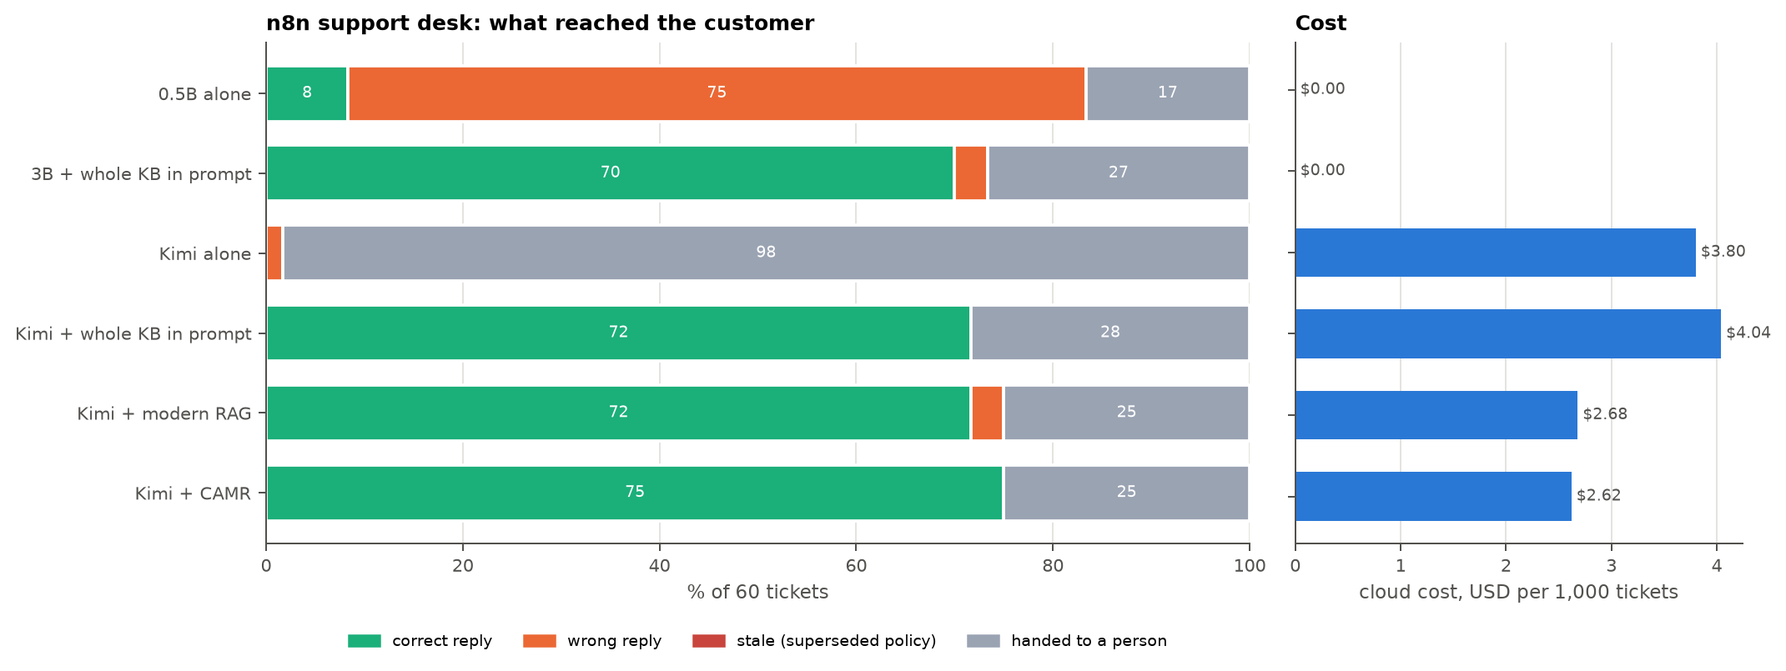
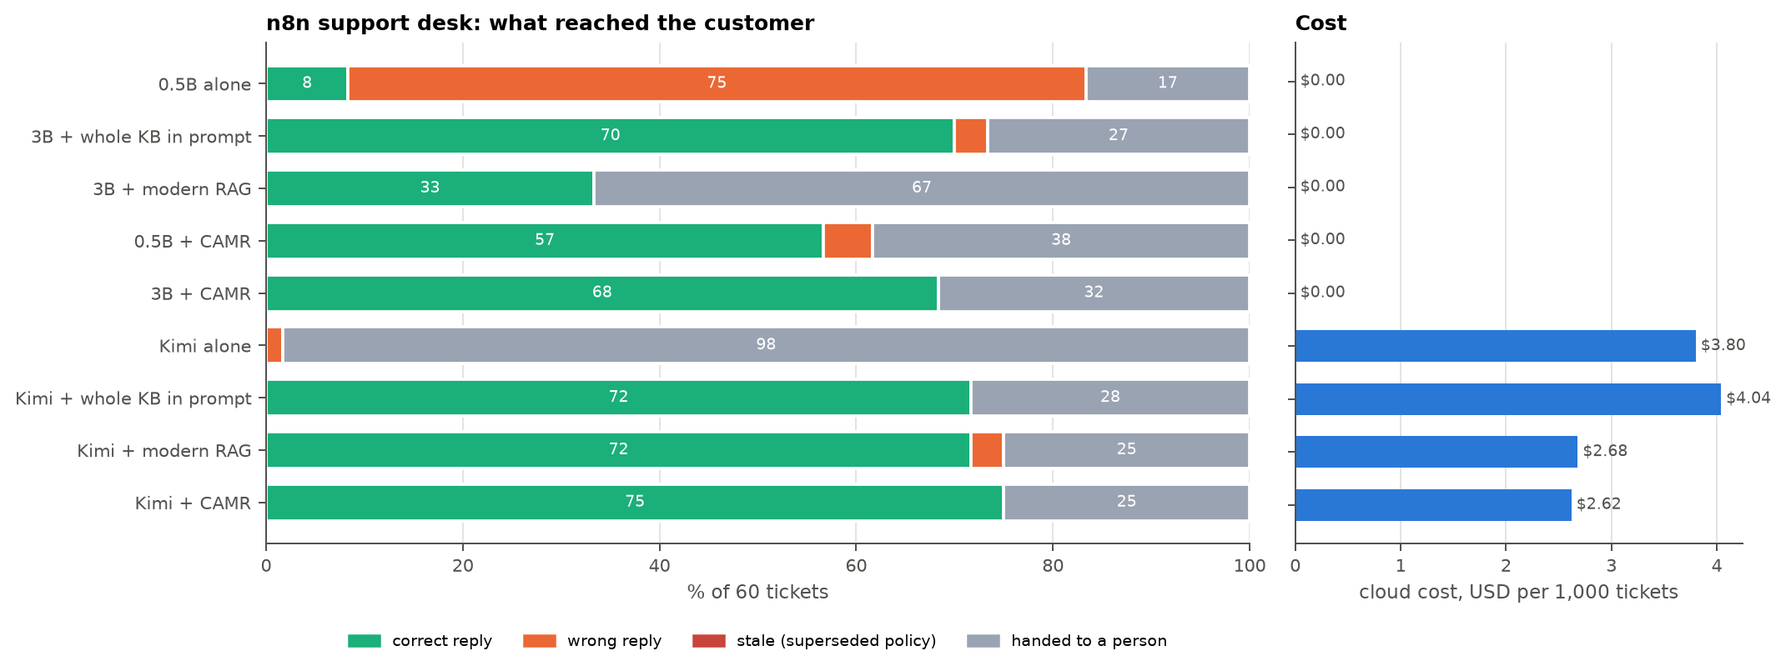
Findings F28-F31: modern RAG pipelines against CAMR, n8n automations and agents, model choice, cloud costs; defects D-31 to D-38; cost comparison chart

Changed region(s): [[0.0, 0.0932, 0.9865, 0.7764]]

diff --git a/scripts/make_ch5_figures.py b/scripts/make_ch5_figures.py
@@ -320,10 +320,10 @@ def fig_costs(out: Path) -> Path | None:
     ys = range(len(items))
     ax.barh(list(ys), [v for _, v in items], color=BLUE, height=0.6)
     for y, (_, v) in zip(ys, items):
-        ax.text(v, y, f" ${v:.2f}", va="center", fontsize=8, color=INK2)
+        ax.text(v, y, f" \\${v:.2f}", va="center", fontsize=8, color=INK2)
     ax.set_yticks(list(ys), [k for k, _ in items])
-    style(ax, xlabel="USD at Moonshot list price (input $3, output $15 per million tokens)", grid="x")
-    ax.set_title(f"Kimi K3 spend across the project: ${d['total']['usd']:.2f} for {d['total']['calls']:,} calls",
+    style(ax, xlabel="USD at Moonshot list price (input \\$3, output \\$15 per million tokens)", grid="x")
+    ax.set_title(f"Kimi K3 spend across the project: \\${d['total']['usd']:.2f} for {d['total']['calls']:,} calls",
                  loc="left")
     fig.tight_layout()
     return save(fig, out, "kimi_costs.png")
@@ -456,10 +456,58 @@ def fig_agent_matrix(out: Path) -> Path | None:
     return save(fig, out, "agentic_matrix.png")
 
 
+def fig_cost_compare(out: Path) -> Path | None:
+    """Cloud cost per 1,000 answers for the same model with each kind of memory, in every scenario measured."""
+    def load(path):
+        f = AG / path
+        return json.loads(f.read_text())["summary"] if f.exists() else None
+    scen = [("Support desk\n(60 tickets)", "helio_{}_kimi-k3.json", "cost_usd_per_1000_tickets"),
+            ("Current events\n(50 questions)", "fresh_{}_kimi-k3.json", "cost_usd_per_1000_questions")]
+    systems = [("llm", "alone", GREY), ("stuff", "context stuffing", ORANGE), ("rag", "modern RAG", BLUE),
+               ("camr", "CAMR", GREEN)]
+    rows = []
+    for label, pat, key in scen:
+        rows.append((label, [(load(pat.format(s)) or {}).get(key) for s, _, _ in systems]))
+    ag = [("Agent\n(20 tasks)", [(load(f"agent_kimi-k3__{m}.json") or {}).get("cost_usd_per_1000_tasks")
+                                  for m in ("none", None, "rag", "camr")] if True else [])]
+    ag[0][1][1] = None
+    rows += ag
+    runs = rag_runs()
+    rb = []
+    for s in ("llm", "stuff", "rag", "camr"):
+        d = runs.get(("kimi-k3", {"rag": "rerank", "camr": "camr"}.get(s, "")))
+        if d:
+            m = d["summary"]
+            rb.append((m["prompt_tokens"] * 3 + m["gen_tokens"] * 15) / 1e6 * 1000)
+        else:
+            rb.append(None)
+    rows.append(("RAG benchmark\n(200 questions)", rb))
+    fig, ax = plt.subplots(figsize=(10.4, 4.2), facecolor=SURF)
+    w = 0.2
+    for k, (s, name, col) in enumerate(systems):
+        xs, ys = [], []
+        for i, (_, vals) in enumerate(rows):
+            if vals[k] is not None:
+                xs.append(i + (k - 1.5) * w)
+                ys.append(vals[k])
+        ax.bar(xs, ys, width=w * 0.92, color=col, label=f"Kimi K3 {name}")
+        for x, y in zip(xs, ys):
+            ax.text(x, y * 1.04, f"\\${y:.2f}" if y < 10 else f"\\${y:.0f}", ha="center", va="bottom",
+                    fontsize=7, color=INK2)
+    ax.set_xticks(range(len(rows)), [r[0] for r in rows], fontsize=8.5)
+    ax.set_yscale("log")
+    ax.set_ylim(0.8, 300)
+    style(ax, ylabel="USD per 1,000 answers (log scale)", grid="y")
+    ax.legend(frameon=False, fontsize=8, ncol=4, loc="upper center", bbox_to_anchor=(0.5, -0.18))
+    ax.set_title("What the same cloud model costs with each kind of memory", loc="left")
+    fig.tight_layout()
+    return save(fig, out, "cost_compare.png")
+
+
 if __name__ == "__main__":
     ap = argparse.ArgumentParser()
     ap.add_argument("--out", default="docs/figures/report")
     o = Path(ap.parse_args().out)
     o.mkdir(parents=True, exist_ok=True)
-    for f in (fig_verified, fig_rag_errors, fig_agent_matrix, fig_rag_outcomes, fig_rag_tradeoff, fig_rag_cost, fig_models, fig_desk, fig_agent, fig_fresh, fig_costs):
+    for f in (fig_verified, fig_rag_errors, fig_agent_matrix, fig_rag_outcomes, fig_rag_tradeoff, fig_rag_cost, fig_models, fig_desk, fig_agent, fig_fresh, fig_costs, fig_cost_compare):
         f(o)

diff --git a/docs/FINDINGS.md b/docs/FINDINGS.md
@@ -5,7 +5,7 @@ number below was produced by the code in this repository, and the file it comes
 from is named. Nothing here is estimated or synthetic. Runs still in progress are
 listed at the end, and this log is updated as they finish.
 
-Last updated: 2026-10-01.
+Last updated: 2026-10-15.
 
 ---
 
@@ -773,6 +773,150 @@ Development draw, Qwen 0.5B calculator, held-out / reworded / derived: v1 56.7 /
 
 **Limits.** The 0.5B model cannot apply the arithmetic series or Heron's formula even with its own corrected solution in front of it (it rewrites `n/2 * (2a + (n-1)d)` as `n * (a + (n-1)d)`); no check can fix a wrong formula built from the right numbers, and the grounding check does not claim to. On combinations it got worse after correction (50% → 0%): it copied the prompt's sample equation (`2*x + 4 = 19`), and the grounding check flagged most of those answers. With 6 problems per family a family's figure moves in steps of 17 points.
 
+
+## F28. Modern RAG pipelines against CAMR (one corpus, one question set)
+
+Sources: `scripts/rag_bench.py`, `results/ragbench/run_<pipeline>_<reader>.json` (with `summary_judged`), `results/ragbench/thresholds.json`, `results/ragbench/corpus.json`; figures `report/rag_outcomes.png`, `report/rag_errors.png`, `report/rag_tradeoff.png`, `report/rag_cost.png`, diagram `diagrams/rag_pipelines.png`.
+
+**Set-up.** One store built from every page the frozen lookups read for the development, test and held-out sets (972 pages -> 9,989 documents -> 10,443 notes, 46.9 MB, lead sentences plus one note per infobox fact, as CAMR stores them). Every pipeline searches the same store and is scored on the same 200 held-out PopQA questions. RAG pipelines use LangChain's standard RAG prompt (rlm/rag-prompt) and five passages: dense (cosine top 5), BM25 (FTS5), hybrid (dense 20 + BM25 20, reciprocal-rank fusion, k = 60), hybrid + cross-encoder reranker (ms-marco-MiniLM-L-6-v2), HyDE, corrective RAG (the reranker's best score grades retrieval; incorrect -> the same frozen web lookups CAMR uses; ambiguous -> both), reranker + abstain, and reranker + CAMR's verification check. Thresholds were chosen on the 200 development questions only: abstain 5.3; corrective RAG 4.77 / 7.57. Answers exact matching marks wrong were judged by Kimi K3; CAMR's answers about a named other meaning (*Happy (2011 film): ...*) are counted apart from wrong ones, since a plain RAG answer never names its meaning.
+
+**Reader: Qwen 0.5B** (judged)
+
+| Pipeline | Correct | Wrong, stated | Other meaning (named) | Declined | Precision | Gold in context | Prompt tokens | Model s | Retrieval CPU ms | USD / 1,000 q |
+|---|---|---|---|---|---|---|---|---|---|---|
+| Dense (naive RAG) | 43.5% | 50.0% | - | 6.5% | 46.5% | 64.0% | 259 | 3.88 | 12 | $0 |
+| BM25 | 29.0% | 64.0% | - | 7.0% | 31.2% | 40.5% | 176 | 1.52 | 3 | $0 |
+| Hybrid (RRF) | 37.0% | 56.0% | - | 7.0% | 39.8% | 56.5% | 191 | 1.70 | 13 | $0 |
+| Hybrid + reranker | 45.5% | 47.0% | - | 7.5% | 49.2% | 72.0% | 290 | 2.48 | 979 | $0 |
+
+**Reader: Kimi K3** (judged)
+
+| Pipeline | Correct | Wrong, stated | Other meaning (named) | Declined | Precision | Gold in context | Prompt tokens | Model s | Retrieval CPU ms | USD / 1,000 q |
+|---|---|---|---|---|---|---|---|---|---|---|
+| Dense (naive RAG) | 68.0% | 20.0% | - | 12.0% | 77.3% | 64.0% | 305 | 5.40 | 12 | $3.08 |
+| Hybrid + reranker | 71.5% | 21.0% | - | 7.5% | 77.3% | 72.0% | 336 | 5.69 | 2922 | $3.33 |
+| Corrective RAG | 71.5% | 20.5% | - | 8.0% | 77.7% | 71.5% | 314 | 5.30 | 5539 | $2.99 |
+| Reranker + CAMR check | 36.0% | 7.0% | - | 57.0% | 83.7% | 72.0% | 336 | 5.69 | 2951 | $3.33 |
+| CAMR (verified) | 63.0% | 4.0% | 20.5% | 12.5% | 72.0% | 64.0% | 65 | 1.80 | 373 | $1.01 |
+
+**Findings**
+1. **With a strong reader, modern RAG answers more and states more wrong answers.** Reranked and corrective RAG were correct on 71.5% with Kimi K3, but about one answer in five (20.5-21.0%) was wrong and stated as fact. CAMR was correct on 63.0%, stated a wrong single claim for 4.0%, answered about a named other meaning for 20.5%, and declined 12.5%. Counting only single claims, 94% of what CAMR stated as a fact was right, against 77% for reranked RAG.
+2. **With a small reader, RAG is mostly wrong.** The 0.5B model with the best RAG pipeline (reranked) was correct on 45.5% and wrong on 47.0%; with BM25 alone, wrong on 64.0%.
+3. **CAMR is far cheaper per answer.** 0.27 model calls and 65 prompt tokens per question (most answers come from a fact line with no model call) against one call and about 300 tokens for every RAG pipeline: $1.01 per 1,000 questions with Kimi K3 against $2.99-3.33.
+4. **Part of CAMR's lower coverage is retrieval.** The answer was in what the reader received for 72.0% of questions with reranked RAG and 64.0% with CAMR (the same as plain dense retrieval). CAMR has no reranker; adding one is the obvious next step.
+5. **CAMR's check is not a filter for any answer.** Bolted onto reranked RAG it cut Kimi K3's wrong answers from 21.0% to 7.0% but declined 57.0%, and 72 of those 114 declined answers were correct: under the RAG prompt the model answers in full sentences (*... is al-Ghazali, a Muslim polymath and student of the Asharite school ...*), and the check needs every claim word in one stored sentence. It is built for the short answers CAMR's own prompt asks for.
+6. **Corrective RAG's web fallback added nothing here** (71.5% = reranked), because the corpus already held the pages the lookups would fetch.
+
+Pending: the 0.5B reader with HyDE, corrective RAG, abstain, check and CAMR (the first attempt stopped on an Ollama timeout under CPU contention), and the 3B reader (dense, reranked, corrective, check, CAMR).
+
+## F29. Automations and agents: n8n workflows calling the engine
+
+Sources: `scripts/agentic/` (gateway, systems, agent, workflow builder, scenario data), `data/agentic/helio.json`, `data/agentic/fresh.json`, `results/agentic/helio_*.json`, `agent_*.json`, `fresh_*.json`, workflow files `results/agentic/n8n/*.json`; figures `report/agentic_desk.png`, `report/agentic_agent.png`, `report/agentic_matrix.png`, `report/agentic_fresh.png`, diagrams `diagrams/automation.png`, `diagrams/n8n_desk.png`, `diagrams/agent_loop.png`, n8n screenshots `figures/n8n/*.png`.
+
+**Set-up.** A gateway on localhost serves four systems behind one interface (reset, teach, forget, ask): the model alone; context stuffing (the whole knowledge base in every prompt); modern RAG (hybrid search, cross-encoder reranker, top 5, LangChain prompt); and CAMR (verified memory). Each answer is metered: model calls, tokens, seconds, US dollars at Moonshot's list price. n8n 2.43.6 (Node 24) runs three workflows headless with standard nodes only (Manual Trigger, HTTP Request, Loop Over Items, IF, No Operation): a **support desk** for an invented company (Helio Solar: 14 documents, 3 policy changes, 60 tickets over 8 days; a ticket nobody can answer is escalated, and a person's resolution is taught back), an **operations agent** (20 tasks with tools: search memory, calculate, create invoice, reply, escalate; a task succeeds only if every check on its tool calls holds; an invoice or reply with a number or fact that is not the company's is a *hallucinated action*), and a **current-events digest** (30 daily Wikipedia *Current events* pages fetched live, 556 items taught, 50 questions written by Kimi K3 from single items with the answer copied verbatim; cost of writing them $0.24).
+
+**Support desk (60 tickets)**
+
+| System | Correct reply | Wrong reply | Escalated | Answerable resolved | Unknowable escalated | Prompt tok/ticket | USD / 1,000 |
+|---|---|---|---|---|---|---|---|
+| Qwen 0.5B alone | 8.3% | 81.7% | 10.0% | 8.9% | 13.3% | 81 | $0 |
+| Llama 3B + context stuffing | 70.0% | 5.0% | 25.0% | 93.3% | 93.3% | 632 | $0 |
+| Llama 3B + RAG | 33.3% | 0.0% | 66.7% | 44.4% | 100.0% | 279 | $0 |
+| Qwen 0.5B + CAMR | 56.7% | 6.7% | 36.7% | 75.6% | 93.3% | 164 | $0 |
+| Llama 3B + CAMR | 68.3% | 0.0% | 31.7% | 91.1% | 100.0% | 146 | $0 |
+| Kimi K3 alone | 0.0% | 3.3% | 96.7% | 0.0% | 93.3% | 134 | $3.80 |
+| Kimi K3 + context stuffing | 71.7% | 1.7% | 26.7% | 95.6% | 93.3% | 687 | $4.04 |
+| Kimi K3 + RAG | 71.7% | 5.0% | 23.3% | 95.6% | 93.3% | 335 | $2.68 |
+| Kimi K3 + CAMR | 75.0% | 0.0% | 25.0% | 100.0% | 100.0% | 204 | $2.62 |
+
+**Desk findings**
+1. **A model alone is useless or dangerous here.** Kimi K3 escalated almost everything (it knows nothing about Helio) yet told two customers to clean their panels *once or twice a year*, not the company's six months. The 0.5B model alone sent wrong replies to 81.7% of tickets.
+2. **With Kimi K3, all three memories answered the knowledge-base and policy tickets; they differ on what they did not know.** CAMR sent 0 wrong replies, resolved every answerable ticket and escalated every unknowable one; stuffing sent 1 wrong reply, RAG 3.
+3. **A wrong reply stops a desk from learning.** *Which cable connects the Lumen LB-13 battery?* RAG told the customer *CAN cable* (from an unrelated error-code note) all three times it was asked: nobody saw it, so nothing was taught. CAMR escalated it the first time, a person answered *CB-3*, the answer was taught, and both later tickets were answered *Helio CB-3 cable*.
+4. **Cost per 1,000 tickets with Kimi K3:** CAMR $2.62, RAG $2.68, stuffing $4.04 (687 prompt tokens per ticket against 204 for CAMR; stuffing grows with every document added).
+5. **On the device:** the 3B model with CAMR resolved 68.3% with 0 wrong replies; with stuffing 70.0% with 5.0% wrong, but each answer read 4.3 times the prompt (632 against 146 tokens). With the standard RAG prompt the 3B model hedged (*I don't know where RMA numbers start, but I do know that they start with HLX-*), so 14 answerable tickets went to a person. The 0.5B model with CAMR sent 4 wrong replies (6.7%), all of one flaw: the check accepted a claim made only of the subject's own name (*Lumen LB-13* for *Which cable ...?*) or another of its attributes (*10-year firmware*); no known relation covers *cable* or *firmware*.
+6. **D-33 (found here):** before the fix CAMR with Kimi K3 sent 0 wrong replies but escalated 48.3% of tickets, including 14 it could answer: questions such as *What hours is the support desk open?* name no product, so the subject check had nothing to anchor to. Topic anchoring (applied only when the question names nothing and asks no known relation) took it to 75.0%, still with 0 wrong.
+
+Pending: Llama 3B alone (its run stopped on an Ollama timeout under CPU contention).
+
+**Agent (20 tasks)**
+
+| Agent | Succeeded | Hallucinated action | Escalated | Tool calls/task | USD / 1,000 |
+|---|---|---|---|---|---|
+| Llama 3B, no memory | 0.0% | 95.0% | 0.0% | 1.05 | $0 |
+| Llama 3B + RAG | 30.0% | 45.0% | 0.0% | 1.50 | $0 |
+| Llama 3B + CAMR | 25.0% | 20.0% | 10.0% | 2.10 | $0 |
+| Kimi K3, no memory | 15.0% | 0.0% | 100.0% | 1.00 | $3.62 |
+| Kimi K3 + RAG | 100.0% | 0.0% | 15.0% | 1.45 | $5.84 |
+| Kimi K3 + CAMR | 100.0% | 0.0% | 15.0% | 1.60 | $6.89 |
+
+**Agent findings**
+1. **With a strong model, memory is the difference between doing nothing and doing everything.** Kimi K3 without memory escalated all 20 tasks (*I do not have the unit price for HS-400 panels ... I must not invent prices*), correct only for the three tasks nobody could do. With either memory it completed all 20 with no hallucinated action: it computed invoice totals with the calculator (*12*420 + 180 + 35*12 = 5640*), combined a learned resolution with a price (36 panels on two Volta-2 inverters, $15,120) and handed the HS-700 warranty, financing and Volta-X price requests to a person.
+2. **A 3B model is not a dependable agent with either memory.** Without memory it invented invoices and replies on 95% of tasks; with RAG it succeeded on 30% with 45% hallucinated actions; with CAMR on 25% with 20% hallucinated actions. Memory's main effect at this size is fewer invented actions, and CAMR's was the largest.
+3. **D-32 (found here):** before the fix the Kimi K3 + CAMR agent succeeded on 80%: terse task phrasing (*Recommended cleaning interval?*, *E57. Any idea?*) was read as names no note mentions, so the entity gate returned nothing.
+
+**Current events (50 questions)**
+
+| System | Correct | Wrong, stated | Declined | Pages live / cached | USD / 1,000 |
+|---|---|---|---|---|---|
+| Llama 3B alone | 2.0% | 0.0% | 98.0% | 30 / 0 | $0 |
+| Kimi K3 alone | 22.0% | 12.0% | 66.0% | 30 / 0 | $14.74 |
+| Kimi K3 + stuffing | 100.0% | 0.0% | 0.0% | 30 / 0 | $89.20 |
+| Kimi K3 + RAG | 98.0% | 2.0% | 0.0% | 30 / 0 | $3.31 |
+| Kimi K3 + CAMR | 96.0% | 0.0% | 4.0% | 30 / 0 | $1.96 |
+
+**News findings**
+1. **After its training data, the cloud model alone mostly declines, and more than a third of what it states is wrong.** Kimi K3 alone: 22% correct, 12% wrong (*four* journalists where the item says six; *Tropical Storm Fred* for Fay; *at least 54* killed where it says seven), 66% declined.
+2. **Taught as the workflow fetched them, the pages made it right:** CAMR 96% correct and 0% wrong (two answers it had read but could not confirm were declined), RAG 98% with 2% wrong, stuffing 100%.
+3. **Stuffing's accuracy is bought with tokens:** every question carried all 556 items (about 29,000 prompt tokens), $89.20 per 1,000 questions against $3.31 for RAG and $1.96 for CAMR. On a stream that grows daily, stuffing's cost grows with it.
+4. All 30 pages were fetched live in the reported runs. n8n marked the news executions as failed because an HTTP connection was reset, although every question was answered and scored (50 of 50); the reset was not traced further.
+5. Llama 3B alone declined 98% of news questions. Pending: Llama 3B with RAG and with CAMR.
+
+**Defects found by the automations (all fixed and the affected runs repeated):** D-32 (terse phrasing read as names), D-33 (questions that name nothing withheld), D-34 (the news workflow first used the support persona, so the cloud model refused news as off topic), D-35 (*I can't identify ...* not recognised as a decline, so a RAG decline was sent as a reply), D-36 (Wikimedia refused repeated live fetches with HTTP 403: the fetch node now continues on error and the gateway teaches the page as cached when the questions were written, recording which pages came live), D-38 (*I don't know* written with a curly apostrophe not recognised as a decline: 13 of Kimi K3's news declines had been scored as wrong; only that run was affected).
+
+## F30. Which model to run CAMR with
+
+Sources: `results/verified/answers_heldout_sa*.json`, `results/verified/judged_heldout.json`, the 19-model sweep (F10, F10b), `results/models/speed.json` (pending); figure `report/model_choice.png`.
+
+The verified pipeline (chosen on the development set with the 0.5B model) was run on the held-out set with the reader swapped, everything else fixed (judged):
+
+| Reader | Correct | Wrong, stated | Other meaning (named) | Not confirmed |
+|---|---|---|---|---|
+| qwen2.5:0.5b | 60.5% | 3.0% | 17.5% | 19.0% |
+| qwen2.5:1.5b | 60.5% | 3.5% | 18.0% | 18.0% |
+| llama3.2:3b | 61.0% | 3.0% | 18.5% | 17.5% |
+| phi4-mini (3.8B) | 60.0% | 3.0% | 18.0% | 19.0% |
+| qwen2.5:7b | 60.5% | 3.5% | 19.5% | 16.5% |
+
+**Findings**
+1. **In verified fact answering, a bigger reader buys nothing.** All five readers are within 1 point. 140 of the 200 questions were answered from a fact line with no model call, whatever the reader; of the other 60 (0.5B reader), 19 were answered correctly and 36 of the remaining 41 had no answer anywhere in what memory read.
+2. **Reading across documents does need a bigger reader:** on HotpotQA (F13) memory added +23, +30.5 and +34.5 points for 0.5B, 1.5B and 3B, and only from 3B did a small model with memory match the cloud model. In the automations the 3B model sent no wrong replies with CAMR, the 0.5B model 4 (F29).
+3. **Recommendation for a 16 GB CPU-only device:** a 1.5B model for facts, a 3B model when questions need reading across documents or a reply goes to a customer; 7B and larger answered more slowly than the cloud model on this hardware (F10b). Clean per-model speed and memory (load time, seconds per answer, tokens per second, resident memory) are pending in `results/models/speed.json`.
+
+## F31. What the cloud model cost
+
+Source: `results/costs/kimi_costs.json` (`python scripts/kimi_costs.py`: every Kimi call the project made, from the logged token counts, at Moonshot's list price: kimi-k3 $3 input, $15 output per million tokens; output includes reasoning tokens; cached-input discounts not applied, so these are upper bounds); figures `report/kimi_costs.png`, `report/cost_compare.png`.
+
+- **Total so far: $32.58 for 6,143 calls** (3.1 M input, 1.6 M output tokens). Largest items: learning formulas $8.74 (every correction round, incl. two stopped runs), the automations $7.32 (of which $4.46 was context stuffing on 50 news questions), judging answers $6.90.
+- **Per 1,000 answers with Kimi K3:** desk: alone $3.80, stuffing $4.04, RAG $2.68, CAMR $2.62; news: alone $14.74, stuffing $89.20, RAG $3.31, CAMR $1.96; agent: no memory $3.62, RAG $5.84, CAMR $6.89 (more tool calls per task); RAG benchmark: reranked $3.33, corrective $2.99, CAMR $1.01.
+- **CAMR was the cheapest way to make the cloud model useful in every scenario but the agent**, because it sends the fewest prompt tokens and, for labelled facts, often none; stuffing was the most expensive, up to 45 times CAMR on the news. Most of every bill is output, and Kimi K3 bills its reasoning as output.
+- Local models cost nothing per answer; their price is CPU time. With CAMR the 3B model's desk answers took about 2 s of model time against 32-37 s with RAG or stuffing (prompts 2-4 times longer; these runs shared the CPU, so the ratio, not the seconds, is the result).
+
+## Defects found in this round
+
+| ID | Defect | Found by | Fix | Retest |
+|---|---|---|---|---|
+| D-31 | Instructions at the start of a sentence (*Give the amount ...*) read as names; the right correction withheld for 33 of 60 reworded problems | Formula development draw | Instructions at any sentence start are not names | Replays identical |
+| D-32 | Terse ticket phrasing (*Recommended cleaning interval?*, *E57. Any idea?*) read as names | Agent tasks | Openers and sentence ends handled | Agent 80% -> 100% |
+| D-33 | Questions that name nothing withheld (14 of 45 answerable desk tickets) | n8n desk | Topic anchoring, only without a name or a known relation | Desk 51.7% -> 75.0%, 0 wrong; PopQA replays identical |
+| D-34 | News workflow used the support persona | Kimi K3's news answers | Persona per scenario | Re-run |
+| D-35 | *I can't identify* not recognised as a decline | Desk RAG reply | Pattern widened | Every desk system re-run |
+| D-36 | Wikimedia refused repeated live fetches (403) | News workflow | Continue on error; cached page; pages counted | Re-run (all 30 live) |
+| D-37 | D-32 itself cut titles (*St. Louis Blues*, *A.I. ...*, *the composer of Hello*) and dropped names that start a statement (*Josh decides ...*) | `reproduce.py` (test, held-out, maths replays failed) | Abbreviations, initials, ellipses; greetings only at a sentence start; opener rule only in a sentence that asks | Extraction identical to pre-D-32 on 600 PopQA questions and 440 formula problems; all replays pass |
+| D-38 | *I don't know* with a curly apostrophe not recognised as a decline | News results | Apostrophes normalised | Only Kimi K3 alone on the news affected; re-run |
+
+The first version of the D-33 fix also applied to *What is the religion of refuge?* (a PopQA question with a lower-case subject) and let Kimi K3's wrong *Islam* through as verified; the replay check caught it and the rule was narrowed to questions that ask no known relation.
+
 ---
 
 ## Screenshots and figures
@@ -794,11 +938,20 @@ Development draw, Qwen 0.5B calculator, held-out / reworded / derived: v1 56.7 /
 | `figures/report/math_learning_curve.png` | F27 held-out accuracy as corrections accumulate; seen vs unseen after learning |
 | `figures/report/math_ablation.png` | F27 one correction stored as rule, worked example or both |
 | `figures/report/math_lora_vs_memory.png` | F27 LoRA per epoch against memory on the same corrections |
+| `figures/report/verified_outcomes.png` | F24 held-out outcomes: verified memory against the models alone |
+| `figures/report/rag_outcomes.png`, `rag_errors.png`, `rag_tradeoff.png`, `rag_cost.png` | F28 RAG pipelines and CAMR: outcomes, where wrong answers come from, accuracy against errors and time, what each reads |
+| `figures/report/agentic_desk.png`, `agentic_agent.png`, `agentic_matrix.png`, `agentic_fresh.png` | F29 support desk, agent (with every task), current events |
+| `figures/report/model_choice.png` | F30 verified pipeline with five readers |
+| `figures/report/kimi_costs.png`, `cost_compare.png` | F31 cloud spend by experiment; cost per 1,000 answers by kind of memory |
+| `figures/diagrams/verified_flow.png`, `rag_pipelines.png`, `automation.png`, `n8n_desk.png`, `agent_loop.png`, `math_loop.png` | How verified answering, the RAG pipelines, the automations, the agent and learning from corrections work |
+| `figures/n8n/desk_canvas.png`, `desk_execution.png`, `agent_canvas.png`, `fresh_canvas.png`, `executions_list.png` | The n8n workflows and finished executions (screenshots) |
 
-Regenerate: `python scripts/make_math_figures.py` (F27), `python scripts/make_figures.py` and `python scripts/screenshot_inspector.py --run-dir results/pilot --out docs/figures/inspector --label grow-100`.
+Regenerate: `python scripts/make_ch5_figures.py` (F24, F28-F31), `python scripts/make_diagrams.py`, `python scripts/make_math_figures.py` (F27), `python scripts/make_figures.py` and `python scripts/screenshot_inspector.py --run-dir results/pilot --out docs/figures/inspector --label grow-100`.
 
 ---
 
 ## Still running
 
-Nothing. All runs reported above are complete.
+- F28: the 0.5B reader with HyDE, corrective RAG, abstain, check and CAMR; the 3B reader (dense, reranked, corrective, check, CAMR); judging of those runs.
+- F29: Llama 3B alone on the desk (re-run after an Ollama timeout); Llama 3B with RAG and with CAMR on the news.
+- F30: per-model speed and memory (`results/models/speed.json`).
